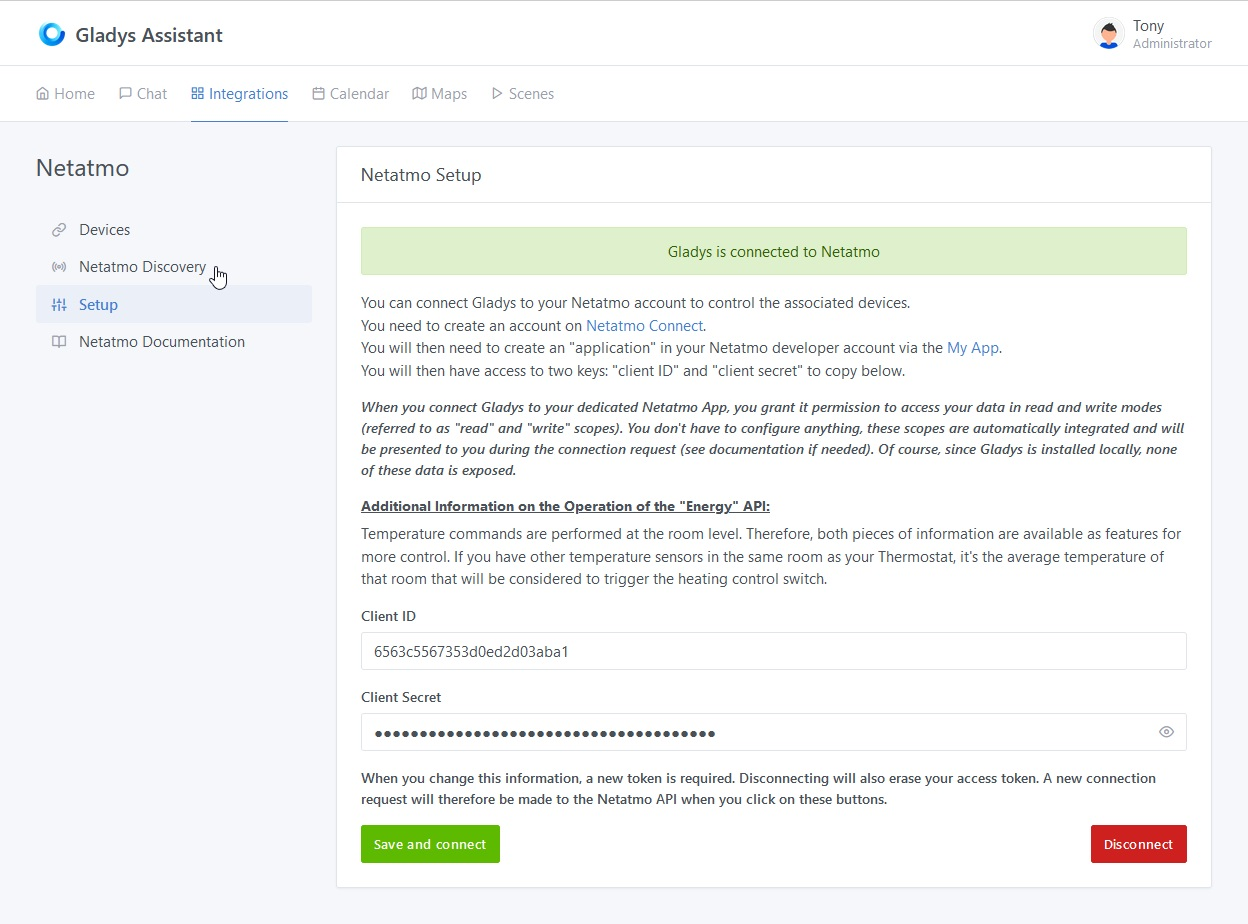
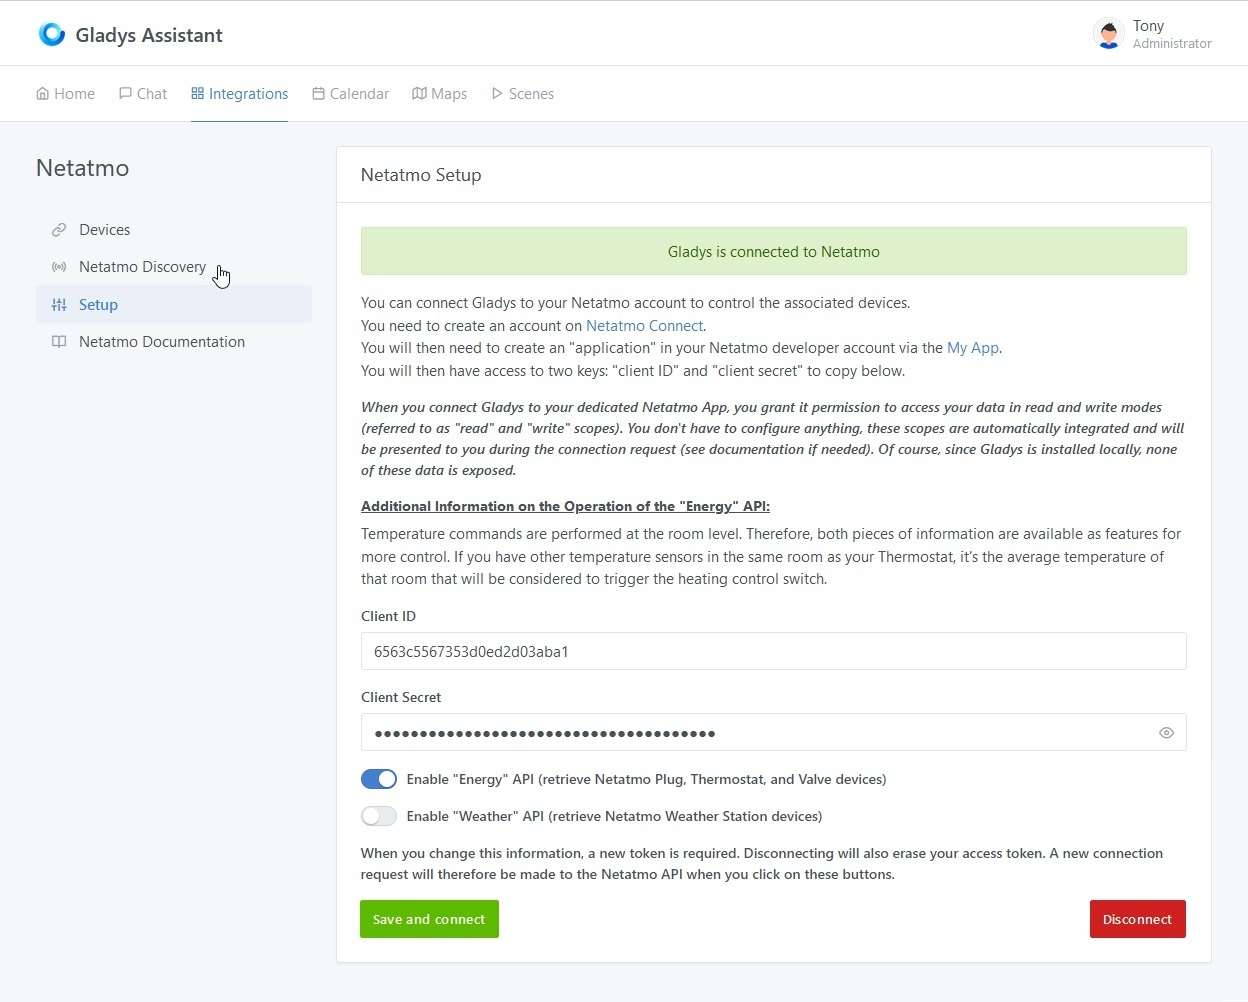
feature: Update Netatmo integration documentation with Weather API - workInProgress

diff --git a/i18n/fr/docusaurus-plugin-content-docs/current/integrations/netatmo.md b/i18n/fr/docusaurus-plugin-content-docs/current/integrations/netatmo.md
@@ -11,11 +11,14 @@ sidebar_label: Netatmo
 Pour pouvoir ajouter vos appareils Netatmo dans Gladys, ceux-ci doivent au préalable être ajoutés dans leurs applications respectives que vous devrez télécharger sur le play store ou l'apple store.
 Ci-dessous ne sont référencés que les appareils compatibles avec Gladys :
 
-- #### Les thermostats "NATherm1" et les vannes NRV :
+- #### Les thermostats "NATherm1" et les vannes "NRV" :
     - [Netatmo Energy sur Play Store](https://play.google.com/store/apps/details?id=com.netatmo.thermostat) 
     - [Netatmo Energy sur Apple Store](https://apps.apple.com/fr/app/netatmo-energy/id730893725)
 
-![Configurer une app 1](../../../../../static/img/docs/fr/configuration/netatmo/netatmo-application-energy.jpg)
+
+- #### Les stations météo "NAMain" et les modules associables (extérieur, anémomètre, pluviomètre et intérieur "NAModule1" à "NAModule4") :
+    - [Netatmo Weather sur Play Store](https://play.google.com/store/apps/details?id=com.netatmo.netatmo) 
+    - [Netatmo Weather sur Apple Store](https://apps.apple.com/fr/app/netatmo-weather/id532538499)
 
 ### Etape 2 - Netatmo connect
 
@@ -106,6 +109,24 @@ Les appareils actuellement compatibles sont (**vous pouvez passer à l'étape su
     - moyenne: 50%
     - basse: 25%
     - très basse: 10%
+  - la température de la pièce (moyenne des températures des divers appareils Netatmo se trouvant dans cette pièce),
+  - la température de consigne de la pièce sur laquelle vous pouvez également agir en commande soit depuis le tableau de bord, soit depuis une scène,
+  - la détection d'une fenêtre ouverte par tout appareil Netatmo se situant dans la même pièce,
+  - l'intensité du signal radio avec le pont,
+  - l'état de demande de chauffage à la chaudière (activé si la température de consigne est supérieure à la température de la pièce).
+
+![Integration Netatmo - Découverte](../../../../../static/img/docs/fr/configuration/netatmo/fr-netatmo-integrations-discovery-NRV.jpg)
+
+- **La station météo hygromètre intérieur (NAMain)**, elle joue également le rôle de concentrateur pour vos autres modules liés à la station météo. Vous y trouverez le nom de l'appareil configuré dans l'application Netatmo, le modèle, son ID Netatmo, la pièce dans laquelle l'appareil est rattaché dans l'application et les fonctionnalités actuellement supportées notamment :
+  - la température mesurée par l'hygromètre,
+  - si vous avez au moins un appareil de la catégorie "Energy" (plug, thermostat ou vanne), la température de la pièce sera accessible (moyenne des températures des divers appareils Netatmo se trouvant dans cette pièce),
+  - la température mesurée par l'hygromètre,
+  - l'intensité du signal wifi,.
+
+![Integration Netatmo - Découverte](../../../../../static/img/docs/fr/configuration/netatmo/fr-netatmo-integrations-discovery-NRV.jpg)
+
+- **La station météo hygromètre intérieur (NAMain)**, elle joue également le rôle de centralisateur pour vos autre module liés à la station météo. Vous y trouverez le nom de l'appareil configuré dans l'application Netatmo, le modèle, le pont auquel il est connecté, son ID Netatmo, la pièce dans laquelle l'appareil est rattaché dans l'application et les fonctionnalités actuellement supportées notamment :
+  - l'état de la batterie exacte (en %),
   - la température de la pièce (moyenne des températures des divers appareils Netatmo se trouvant dans cette pièce),
   - la température de consigne de la pièce sur laquelle vous pouvez également agir en commande soit depuis le tableau de bord, soit depuis une scène,
   - la détection d'une fenêtre ouverte par tout appareil Netatmo se situant dans la même pièce,

diff --git a/docs/integrations/netatmo.md b/docs/integrations/netatmo.md
@@ -15,7 +15,10 @@ Below are only the devices compatible with Gladys:
     - [Netatmo Energy on Play Store](https://play.google.com/store/apps/details?id=com.netatmo.thermostat) 
     - [Netatmo Energy on Apple Store](https://apps.apple.com/us/app/netatmo-energy/id730893725)
 
-![Configure an app 1](../../static/img/docs/en/configuration/netatmo/netatmo-application-energy.jpg)
+
+- #### The "NAMain" weather stations and the associable (outdoor, rain gauge, anemometer and indoor modules "NAModule1" to "NAModule4"):
+    - [Netatmo Weather on Play Store](https://play.google.com/store/apps/details?id=com.netatmo.netatmo) 
+    - [Netatmo Weather on Apple Store](https://apps.apple.com/us/app/netatmo-weather/id532538499)
 
 ### Step 2 - Netatmo Connect
 
